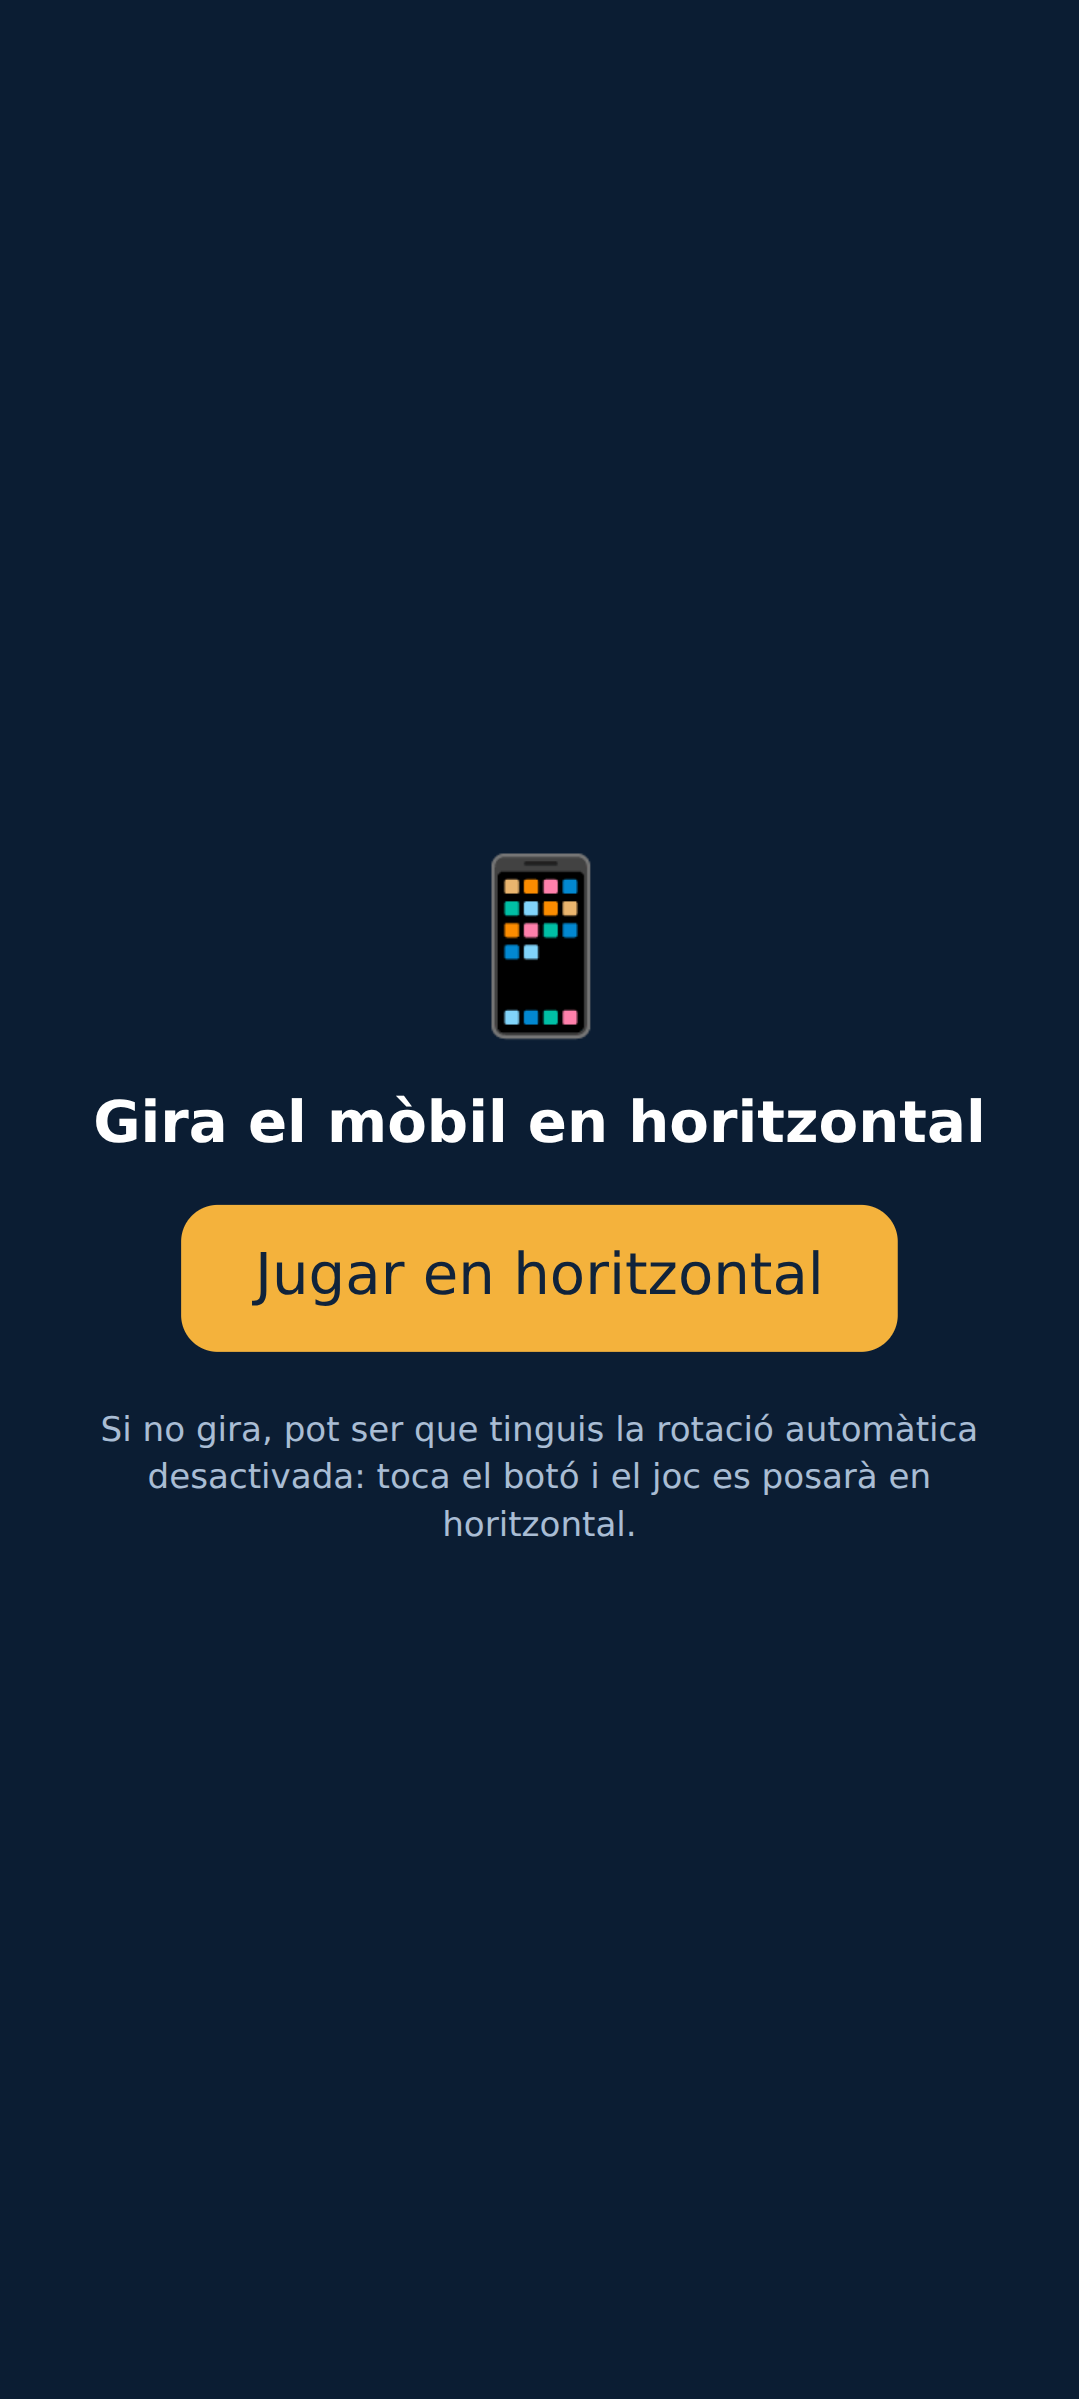
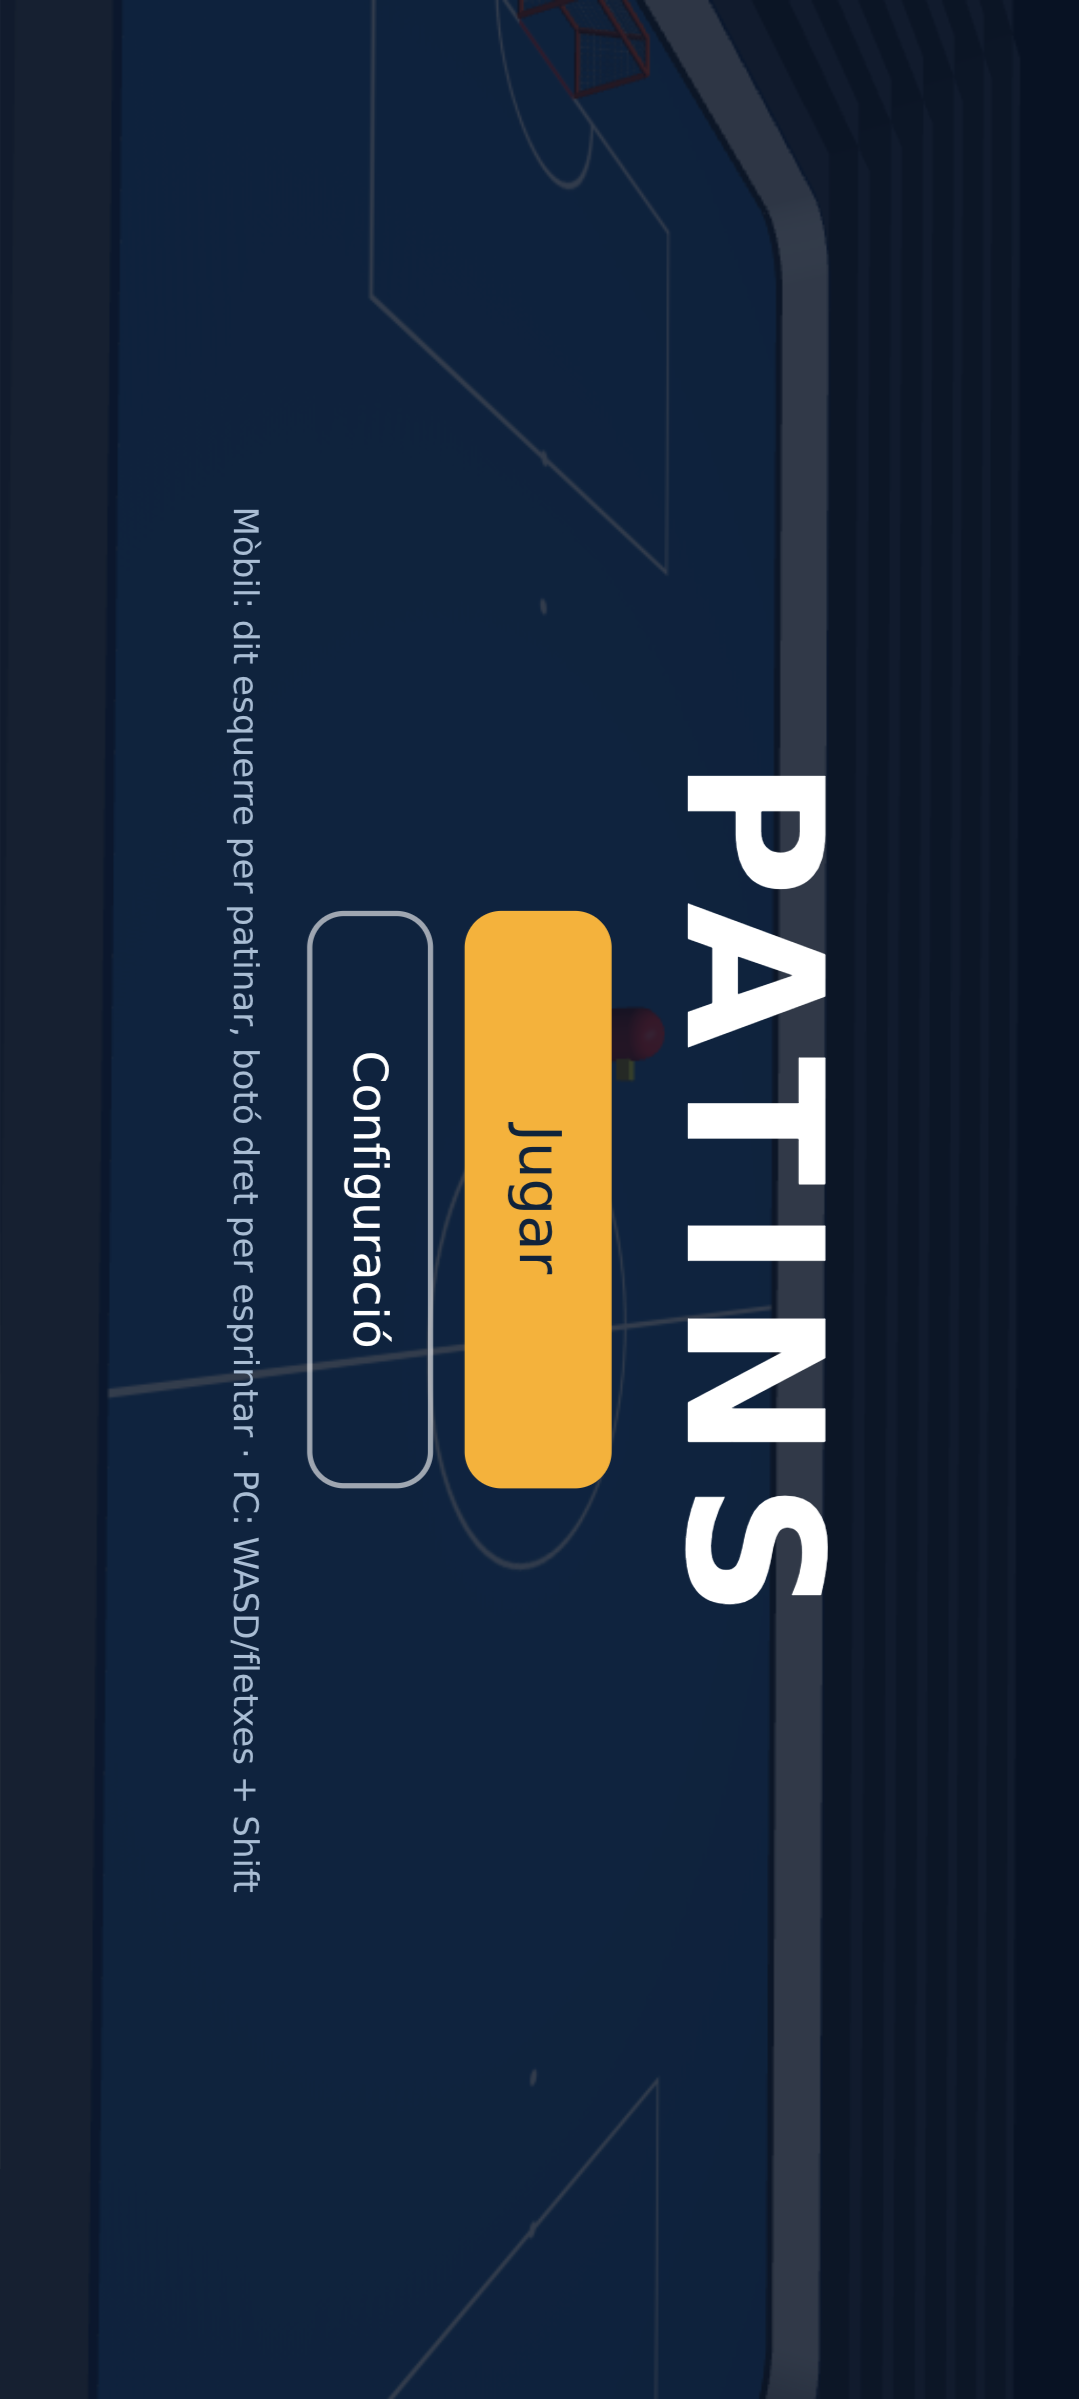
Always landscape: rotate the app in portrait instead of a rotate screen; apply quality without reload (v0.0.9)
Claude-Session: https://claude.ai/code/session_012zvCfkJugGKyNVzBQL3uk7

diff --git a/src/render/renderer.ts b/src/render/renderer.ts
@@ -27,20 +27,23 @@ export class Renderer {
   readonly engine: Engine;
   readonly scene: Scene;
   readonly tvCamera: TvCamera;
-  private readonly shadows: ShadowGenerator | null;
+  private shadows: ShadowGenerator | null = null;
+  private readonly keyLight: DirectionalLight;
+  private quality: QualityLevel;
   private readonly playerMeshes: Mesh[] = [];
   /** Index of the player the TV camera follows (until there is a ball). */
   followPlayer = 0;
 
   constructor(canvas: HTMLCanvasElement, quality: QualityLevel) {
-    const preset = QUALITY_PRESETS[quality];
+    this.quality = quality;
+    // MSAA is fixed at engine creation, so it is always on; presets only change things
+    // that can be switched at runtime (pixel ratio, shadows).
     this.engine = new Engine(
       canvas,
-      preset.antialias,
+      true,
       { stencil: false, preserveDrawingBuffer: false, powerPreference: 'high-performance', disableWebGL2Support: false },
       false,
     );
-    this.applyPixelRatio(preset.maxPixelRatio);
     this.scene = new Scene(this.engine);
     this.scene.clearColor = new Color4(0.03, 0.05, 0.09, 1);
     this.scene.skipPointerMovePicking = true;
@@ -55,39 +58,45 @@ export class Renderer {
     key.position = new Vector3(8, 25, -12);
     key.intensity = 0.75;
     key.diffuse = new Color3(1, 0.97, 0.92);
-
-    if (preset.shadowMapSize > 0) {
-      this.shadows = new ShadowGenerator(preset.shadowMapSize, key);
-      this.shadows.usePercentageCloserFiltering = true;
-      this.shadows.filteringQuality = ShadowGenerator.QUALITY_LOW;
-      this.shadows.bias = 0.002;
-      key.shadowMinZ = 1;
-      key.shadowMaxZ = 60;
-      key.autoUpdateExtends = false;
-      key.shadowFrustumSize = 48;
-    } else {
-      this.shadows = null;
-    }
+    key.shadowMinZ = 1;
+    key.shadowMaxZ = 60;
+    key.autoUpdateExtends = false;
+    key.shadowFrustumSize = 48;
+    this.keyLight = key;
 
     buildRink(this.scene);
     this.tvCamera = new TvCamera(this.scene);
     this.scene.activeCamera = this.tvCamera.camera;
+    this.setQuality(quality);
 
+    // The canvas changes size on window resize, rotation and fullscreen; a ResizeObserver
+    // fires after layout has settled (Android can report stale sizes in resize events).
     const onResize = (): void => {
-      this.applyPixelRatio(preset.maxPixelRatio);
+      this.applyPixelRatio(QUALITY_PRESETS[this.quality].maxPixelRatio);
       this.engine.resize();
     };
     window.addEventListener('resize', onResize);
-    // Android may report the old size on the first event after a rotation: resize again
-    // once the new orientation has settled.
-    const onRotate = (): void => {
-      onResize();
-      setTimeout(onResize, 250);
-      setTimeout(onResize, 700);
-    };
-    screen.orientation?.addEventListener('change', onRotate);
-    window.addEventListener('orientationchange', onRotate);
-    document.addEventListener('fullscreenchange', onRotate);
+    if (typeof ResizeObserver !== 'undefined') new ResizeObserver(onResize).observe(canvas);
+  }
+
+  /** Apply a quality preset immediately (no reload, so fullscreen/orientation are kept). */
+  setQuality(quality: QualityLevel): void {
+    this.quality = quality;
+    const preset = QUALITY_PRESETS[quality];
+    this.applyPixelRatio(preset.maxPixelRatio);
+    this.engine.resize();
+    const currentSize = this.shadows?.getShadowMap()?.getSize().width ?? 0;
+    if (currentSize === preset.shadowMapSize) return;
+    this.shadows?.dispose();
+    this.shadows = null;
+    if (preset.shadowMapSize > 0) {
+      const sg = new ShadowGenerator(preset.shadowMapSize, this.keyLight);
+      sg.usePercentageCloserFiltering = true;
+      sg.filteringQuality = ShadowGenerator.QUALITY_LOW;
+      sg.bias = 0.002;
+      for (const m of this.playerMeshes) sg.addShadowCaster(m, true);
+      this.shadows = sg;
+    }
   }
 
   /** Render at min(devicePixelRatio, cap) to keep fill-rate inside the mobile budget. */

diff --git a/tests/e2e/rotation.spec.ts b/tests/e2e/rotation.spec.ts
@@ -2,28 +2,39 @@ import { test, expect } from '@playwright/test';
 
 test.use({ viewport: { width: 411, height: 914 } });
 
-test('portrait shows an opaque rotate screen with a landscape button; rotating resumes the game', async ({ page }) => {
+test('portrait: the game is drawn sideways (landscape layout) and touch input still matches', async ({ page }) => {
   const errors: string[] = [];
   page.on('pageerror', (err) => errors.push(err.message));
-  await page.goto('./');
+  await page.goto('./?quality=low');
 
-  const hint = page.locator('#rotate-hint');
-  await expect(hint).toBeVisible();
-  await expect(page.locator('#btn-rotate')).toHaveText('Jugar en horitzontal');
-  // Tapping it must never throw, even where fullscreen/orientation lock is refused.
-  await page.click('#btn-rotate');
-  await page.screenshot({ path: 'test-results/screenshots/f0-portrait.png' });
-
-  await page.setViewportSize({ width: 914, height: 411 });
-  await expect(hint).toBeHidden();
-  await expect(page.locator('#btn-play')).toBeVisible();
+  // Landscape render buffer even though the viewport is portrait.
   await expect
     .poll(() => page.evaluate(() => {
       const c = document.getElementById('game-canvas') as HTMLCanvasElement;
       return c.width > c.height;
     }))
     .toBe(true);
+  await page.screenshot({ path: 'test-results/screenshots/f0-portrait.png' });
+
   await page.click('#btn-play');
   await expect(page.locator('#hud')).toBeVisible();
+
+  // Rotated 90° clockwise: the landscape "left half" is the top half of the portrait
+  // viewport, and landscape "right" is viewport "down".
+  const p0 = await page.evaluate(() => ({ ...(window as any).__PATINS__.game.world.players[0] }));
+  await page.mouse.move(205, 200);
+  await page.mouse.down();
+  await page.mouse.move(205, 280, { steps: 4 });
+  await page.waitForTimeout(1200);
+  const p1 = await page.evaluate(() => ({ ...(window as any).__PATINS__.game.world.players[0] }));
+  await page.mouse.up();
+  expect(p1.x - p0.x).toBeGreaterThan(0.3);
+  expect(Math.abs(p1.y - p0.y)).toBeLessThan(0.3);
+
+  // Turning the phone to landscape removes the rotation.
+  await page.setViewportSize({ width: 914, height: 411 });
+  await expect
+    .poll(() => page.evaluate(() => getComputedStyle(document.getElementById('app')!).transform))
+    .toBe('none');
   expect(errors).toEqual([]);
 });

diff --git a/index.html b/index.html
@@ -10,13 +10,21 @@
     <title>PATINS</title>
     <style>
       html, body { margin: 0; padding: 0; width: 100%; height: 100%; overflow: hidden; background: #0b1d33; overscroll-behavior: none; touch-action: none; user-select: none; -webkit-user-select: none; -webkit-tap-highlight-color: transparent; }
-      #game-canvas { position: fixed; inset: 0; width: 100%; height: 100%; display: block; outline: none; touch-action: none; }
-      #ui-root { position: fixed; inset: 0; pointer-events: none; font-family: system-ui, -apple-system, "Segoe UI", Roboto, sans-serif; color: #fff; }
+      /* #app is always laid out in landscape. In portrait it is rotated 90° so the game
+         simply appears sideways and the player turns the phone (works with auto-rotate off). */
+      #app { position: fixed; top: 0; left: 0; width: 100vw; height: 100vh; width: 100dvw; height: 100dvh; overflow: hidden; }
+      @media (orientation: portrait) {
+        #app { left: 100vw; left: 100dvw; width: 100vh; width: 100dvh; height: 100vw; height: 100dvw; transform-origin: 0 0; transform: rotate(90deg); }
+      }
+      #game-canvas { position: absolute; inset: 0; width: 100%; height: 100%; display: block; outline: none; touch-action: none; }
+      #ui-root { position: absolute; inset: 0; pointer-events: none; font-family: system-ui, -apple-system, "Segoe UI", Roboto, sans-serif; color: #fff; }
     </style>
   </head>
   <body>
-    <canvas id="game-canvas"></canvas>
-    <div id="ui-root"></div>
+    <div id="app">
+      <canvas id="game-canvas"></canvas>
+      <div id="ui-root"></div>
+    </div>
     <script type="module" src="/src/main.ts"></script>
   </body>
 </html>

diff --git a/src/input/virtualJoystick.ts b/src/input/virtualJoystick.ts
@@ -1,5 +1,6 @@
 import { TUNING } from '../config/tuning';
 import { capturePointer } from '../ui/dom';
+import { layoutWidth, toLayout } from '../ui/layout';
 
 /**
  * Floating virtual joystick (docs/03 §3A): appears where the left thumb touches (left part
@@ -14,6 +15,7 @@ export class VirtualJoystick {
   private originY = 0;
   private dx = 0;
   private dy = 0;
+  private readonly pt = { x: 0, y: 0 };
 
   constructor() {
     this.element = document.createElement('div');
@@ -39,12 +41,13 @@ export class VirtualJoystick {
 
   private onDown(e: PointerEvent): void {
     if (this.pointerId !== null) return;
-    if (e.clientX > window.innerWidth * TUNING.input.joystickZone) return;
+    toLayout(e.clientX, e.clientY, this.pt);
+    if (this.pt.x > layoutWidth() * TUNING.input.joystickZone) return;
     e.preventDefault();
     this.pointerId = e.pointerId;
     capturePointer(this.element, e.pointerId);
-    this.originX = e.clientX;
-    this.originY = e.clientY;
+    this.originX = this.pt.x;
+    this.originY = this.pt.y;
     this.dx = 0;
     this.dy = 0;
     this.base.classList.remove('joy-idle');
@@ -57,8 +60,9 @@ export class VirtualJoystick {
     if (e.pointerId !== this.pointerId) return;
     e.preventDefault();
     const r = TUNING.input.joystickRadiusPx;
-    let dx = e.clientX - this.originX;
-    let dy = e.clientY - this.originY;
+    toLayout(e.clientX, e.clientY, this.pt);
+    let dx = this.pt.x - this.originX;
+    let dy = this.pt.y - this.originY;
     const len = Math.hypot(dx, dy);
     if (len > r) {
       dx = (dx / len) * r;

diff --git a/src/ui/layout.ts b/src/ui/layout.ts
@@ -1,0 +1,33 @@
+/**
+ * The app container (#app) is always laid out in landscape; in portrait CSS rotates it
+ * 90° clockwise. Pointer events report viewport coordinates, so touch input must be
+ * converted into the container's own (landscape) coordinates.
+ */
+const PORTRAIT = window.matchMedia('(orientation: portrait)');
+
+function app(): HTMLElement {
+  return document.getElementById('app') ?? document.body;
+}
+
+export function isRotated(): boolean {
+  return PORTRAIT.matches;
+}
+
+/** Landscape layout size of the app container (CSS px, before rotation). */
+export function layoutWidth(): number {
+  return app().clientWidth;
+}
+
+/** Convert viewport (clientX, clientY) into app-container coordinates. Writes into `out`. */
+export function toLayout(clientX: number, clientY: number, out: { x: number; y: number }): void {
+  const r = app().getBoundingClientRect();
+  if (!isRotated()) {
+    out.x = clientX - r.left;
+    out.y = clientY - r.top;
+    return;
+  }
+  // rotate(90deg) about the top-left corner, placed at the right edge of the viewport:
+  // layout (x, y) → viewport (right - y, top + x).
+  out.x = clientY - r.top;
+  out.y = r.right - clientX;
+}

diff --git a/src/config/quality.ts b/src/config/quality.ts
@@ -1,19 +1,18 @@
 // Render quality presets (docs/04: Bajo / Medio / Alto). Auto-detection comes later (F6);
 // for now the default is "medium" and can be overridden with ?quality=low|medium|high.
+// Every field can change at runtime (no engine re-creation, so fullscreen is kept).
 
 export interface QualityPreset {
   /** Cap on device pixel ratio used for the render buffer (Pixel 8a native = 2.625). */
   maxPixelRatio: number;
   /** Shadow map resolution for the single shadow-casting light (0 = no shadows). */
   shadowMapSize: number;
-  /** MSAA on the default framebuffer. */
-  antialias: boolean;
 }
 
 export const QUALITY_PRESETS = {
-  low: { maxPixelRatio: 1.25, shadowMapSize: 0, antialias: false },
-  medium: { maxPixelRatio: 1.75, shadowMapSize: 1024, antialias: true },
-  high: { maxPixelRatio: 2.625, shadowMapSize: 2048, antialias: true },
+  low: { maxPixelRatio: 1.25, shadowMapSize: 0 },
+  medium: { maxPixelRatio: 1.75, shadowMapSize: 1024 },
+  high: { maxPixelRatio: 2.625, shadowMapSize: 2048 },
 } as const satisfies Record<string, QualityPreset>;
 
 export type QualityLevel = keyof typeof QUALITY_PRESETS;

diff --git a/src/main.ts b/src/main.ts
@@ -5,7 +5,7 @@ import { isQualityLevel } from './config/quality';
 import { Game } from './game/game';
 import { Renderer } from './render/renderer';
 import { HumanInput } from './input/humanInput';
-import { createPauseButton, createRotateHint } from './ui/overlays';
+import { createPauseButton } from './ui/overlays';
 import { enterFullscreenLandscape } from './ui/fullscreen';
 import { createDebugPanel, isDebugEnabled } from './ui/debugPanel';
 import { loadSettings } from './ui/settings';
@@ -36,7 +36,7 @@ const menu = new Menu(settings, {
     hud.hidden = false;
     void enterFullscreenLandscape();
   },
-  onQualityChange: () => location.reload(),
+  onQualityChange: (q) => renderer.setQuality(q),
 });
 
 const pauseButton = createPauseButton(() => {
@@ -53,7 +53,7 @@ hud.id = 'hud';
 hud.hidden = true;
 hud.append(input.joystick.element, input.sprintButton.element, pauseButton);
 
-uiRoot.append(hud, menu.element, createRotateHint());
+uiRoot.append(hud, menu.element);
 if (isDebugEnabled()) uiRoot.append(createDebugPanel(game, renderer));
 translateDom(uiRoot);
 onLanguageChange(() => translateDom(uiRoot));

diff --git a/src/ui/overlays.ts b/src/ui/overlays.ts
@@ -1,21 +1,4 @@
 import { el } from './dom';
-import { enterFullscreenLandscape } from './fullscreen';
-
-/**
- * "Turn your phone" screen, visible only in portrait via CSS. Includes a button that
- * enters fullscreen and locks landscape, which also works when the phone has auto-rotate
- * disabled (otherwise the browser would stay in portrait forever).
- */
-export function createRotateHint(): HTMLElement {
-  const button = el('button', { className: 'btn-primary', i18n: 'rotate.button', attrs: { id: 'btn-rotate' } });
-  button.addEventListener('click', () => void enterFullscreenLandscape());
-  return el('div', { className: 'overlay rotate-hint', attrs: { id: 'rotate-hint' } }, [
-    el('div', { className: 'rotate-icon', attrs: { 'aria-hidden': 'true' } }, ['📱']),
-    el('p', { className: 'rotate-text', i18n: 'rotate.hint' }),
-    button,
-    el('p', { className: 'hint', i18n: 'rotate.autoRotateTip' }),
-  ]);
-}
 
 /** Small in-game pause button (top right) that brings the menu back. */
 export function createPauseButton(onPause: () => void): HTMLButtonElement {

diff --git a/src/ui/menu.ts b/src/ui/menu.ts
@@ -7,7 +7,7 @@ import { saveSettings, type Settings } from './settings';
 export interface MenuCallbacks {
   /** "Play"/"Resume" pressed (inside a user gesture: safe to request fullscreen). */
   onPlay: () => void;
-  /** Quality changed: the engine must be recreated, so the app reloads. */
+  /** Quality changed: applied immediately by the renderer. */
   onQualityChange: (q: QualityLevel) => void;
 }
 
@@ -51,7 +51,6 @@ export class Menu {
         el('span', { className: 'setting-label', i18n: 'settings.quality' }),
         this.qualityChoices(),
       ]),
-      el('p', { className: 'hint', i18n: 'settings.qualityNote' }),
       this.versionLabel,
       back,
     ]);
@@ -81,6 +80,7 @@ export class Menu {
         this.settings.quality = q;
         saveSettings(this.settings);
         this.callbacks.onQualityChange(q);
+        this.refreshTexts();
       });
       group.append(b);
     }

diff --git a/tests/e2e/menu.spec.ts b/tests/e2e/menu.spec.ts
@@ -40,3 +40,16 @@ test('pause button returns to the menu and freezes the simulation', async ({ pag
   await page.waitForTimeout(500);
   expect(await tick()).toBe(t1);
 });
+
+test('changing graphics quality applies immediately without reloading the page', async ({ page }) => {
+  await page.goto('./');
+  await page.evaluate(() => ((window as any).__noReloadMarker = 42));
+  await page.click('#btn-settings');
+  await expect(page.locator('#quality-medium')).toHaveClass(/selected/);
+  await page.click('#quality-low');
+  await expect(page.locator('#quality-low')).toHaveClass(/selected/);
+  await page.click('#quality-high');
+  await expect(page.locator('#quality-high')).toHaveClass(/selected/);
+  await expect(page.locator('#settings-screen')).toBeVisible();
+  expect(await page.evaluate(() => (window as any).__noReloadMarker)).toBe(42);
+});

diff --git a/src/ui/styles.css b/src/ui/styles.css
@@ -43,13 +43,6 @@
 }
 
 .overlay[hidden] { display: none; }
-.rotate-hint { display: none; z-index: 100; background: #0b1d33; padding: 24px; }
-.rotate-text { margin: 0; font-size: 22px; font-weight: 800; }
-@media (orientation: portrait) {
-  .rotate-hint { display: flex; }
-}
-.rotate-icon { font-size: 64px; animation: rotate-phone 1.6s ease-in-out infinite; }
-@keyframes rotate-phone { 0%, 30% { transform: rotate(0deg); } 60%, 100% { transform: rotate(-90deg); } }
 
 /* Debug panel (?debug=1) */
 .debug-panel {

diff --git a/docs/DECISIONS.md b/docs/DECISIONS.md
@@ -32,3 +32,6 @@
 - 2026-10-02: Test de rendimiento (`tests/e2e/perf.spec.ts`): con CPU ×4 comprueba presupuestos de docs/04 (draw calls ≤ 120, triángulos ≤ 200k) y coste de la sim por tick; el frame time en headless no es representativo (SwiftShader) y solo se reporta. Hook `__PATINS__.perf()` / `benchSim()`.
 - 2026-10-02: `setPointerCapture` envuelto en try/catch (lanza si el puntero ya no existe).
 - 2026-10-02: Pantalla de vertical con botón "Jugar en horitzontal" que pide pantalla completa + `screen.orientation.lock('landscape')`: funciona aunque el móvil tenga la rotación automática desactivada (caso real de Guillem). Tras girar se reajusta el tamaño varias veces (Android da tamaños viejos en el primer evento).
+- 2026-10-02 (sustituye a la pantalla "gira el mòbil"): todo el juego vive en `#app`, siempre maquetado en horizontal; en vertical CSS lo rota 90° en sentido horario (`src/ui/layout.ts` convierte coordenadas táctiles). Guillem prefiere que se abra directamente en horizontal y girar él el móvil. "Jugar" sigue pidiendo pantalla completa + bloqueo horizontal.
+- 2026-10-02: La calidad gráfica se aplica en caliente (`Renderer.setQuality`: pixel ratio + sombras). MSAA siempre activo porque solo se puede fijar al crear el motor. Antes se recargaba la página y eso sacaba de pantalla completa (volvía a vertical).
+- 2026-10-02: Redimensionado del canvas con `ResizeObserver` (sustituye a los reintentos con temporizador tras girar).
